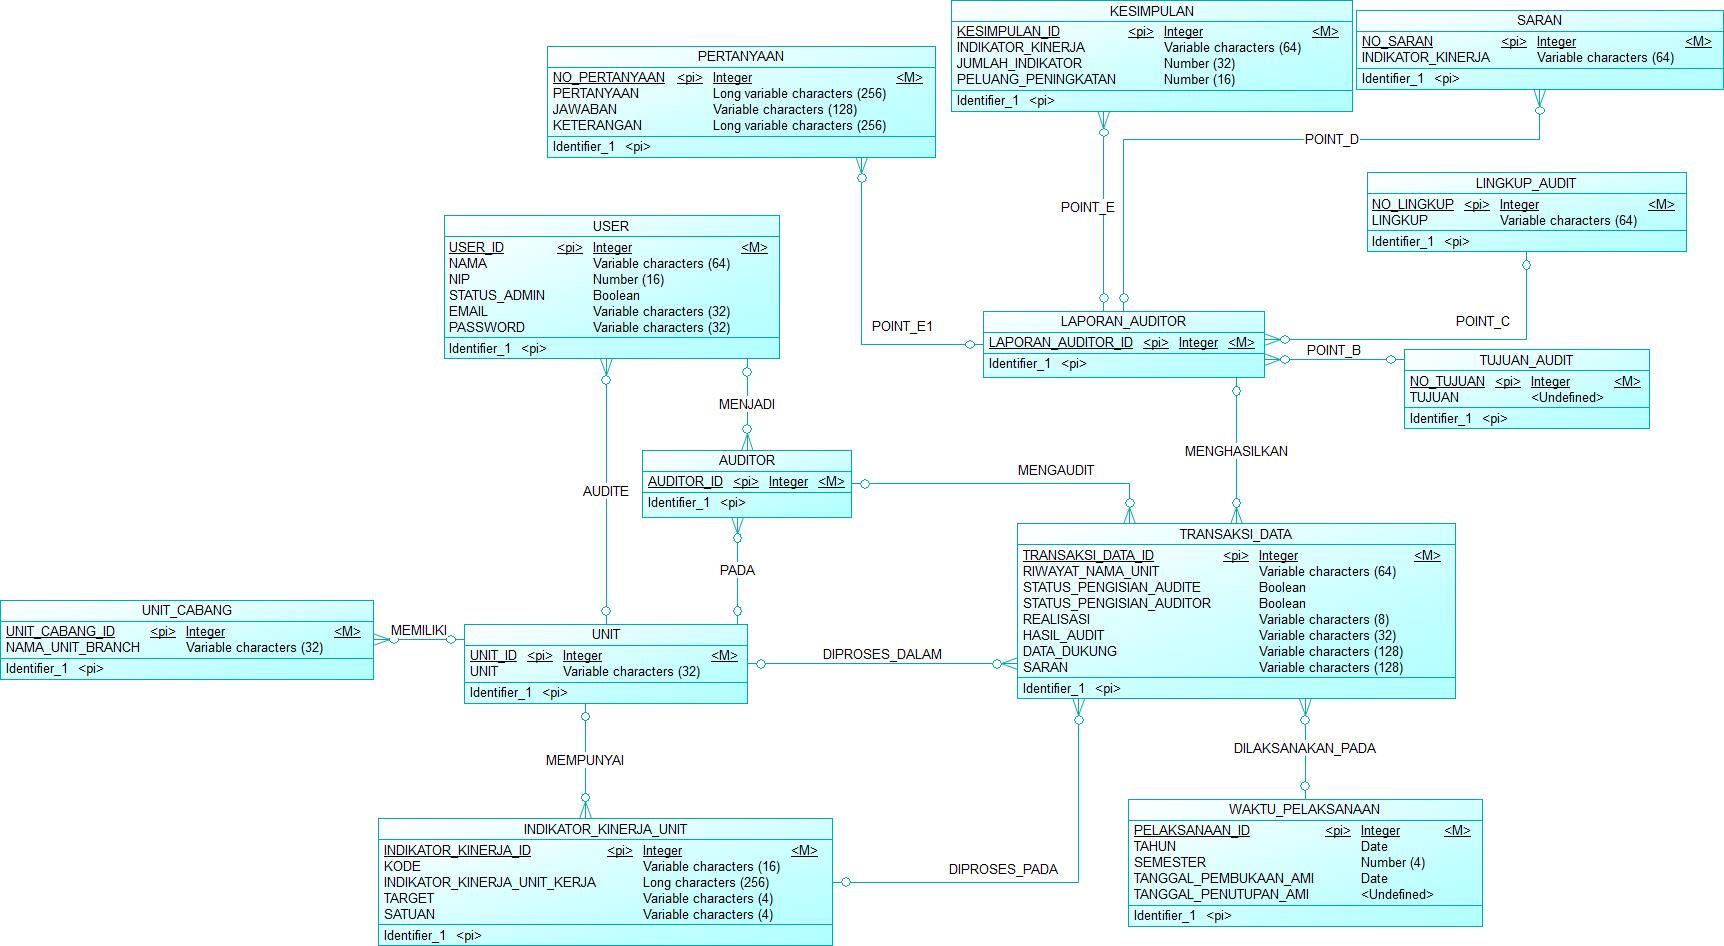
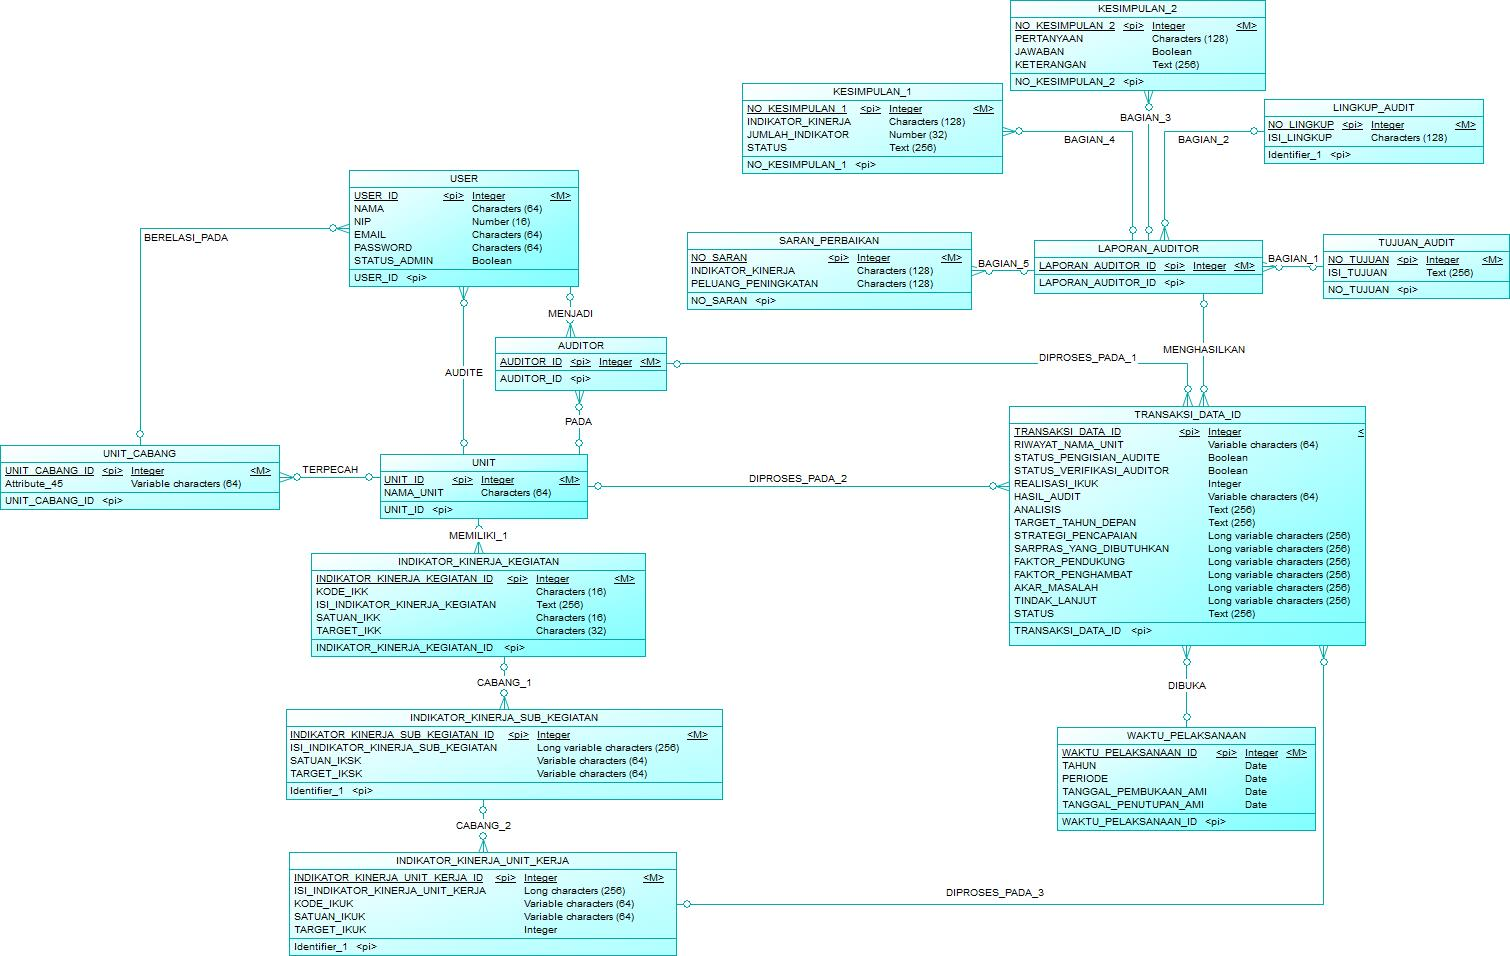
update database & image

diff --git a/database/migrations/2023_12_13_053811_create_indikator_kinerja_unit_kerja_table.php b/database/migrations/2023_12_13_053811_create_indikator_kinerja_unit_kerja_table.php
@@ -11,13 +11,10 @@ return new class extends Migration
      */
     public function up(): void
     {
-        Schema::create('indikator_kinerja_unit', function (Blueprint $table) {
-            $table->id('indikator_kinerja_id');
-            // $table->integer('no_id');
-            $table->unsignedBigInteger('unit_id')->nullOnDelete();
-            $table->foreign('unit_id')->references('unit_id')->on('unit');
+        Schema::create('indikator_kinerja_unit_kerja', function (Blueprint $table) {
+            $table->id('indikator_kinerja_unit_kerja_id');
             $table->string('kode')->unique();
-            $table->string('indikator_kinerja_unit_kerja'); 
+            $table->string('isi_indikator_kinerja_unit_kerja'); 
             $table->string('satuan');
             $table->integer('target');
             $table->timestamps();
@@ -29,6 +26,6 @@ return new class extends Migration
      */
     public function down(): void
     {
-        Schema::dropIfExists('indikator_kinerja_unit');
+        Schema::dropIfExists('indikator_kinerja_unit_kerja');
     }
 };

diff --git a/database/migrations/2024_04_03_063847_update_indikator_kinerja_unit_kerja.php b/database/migrations/2024_04_03_063847_update_indikator_kinerja_unit_kerja.php
@@ -1,0 +1,33 @@
+<?php
+
+use Illuminate\Database\Migrations\Migration;
+use Illuminate\Database\Schema\Blueprint;
+use Illuminate\Support\Facades\Schema;
+
+return new class extends Migration
+{
+    /**
+     * Run the migrations.
+     */
+    public function up(): void
+    {
+        Schema::table('indikator_kinerja_unit_kerja', function (Blueprint $table) {
+            $table->unsignedBigInteger('indikator_kinerja_sub_kegiatan_id')
+                    ->after('indikator_kinerja_unit_kerja_id');
+                    
+            $table->foreign('indikator_kinerja_sub_kegiatan_id', 'fk_iksk')
+                    ->references('indikator_kinerja_sub_kegiatan_id')
+                    ->on('indikator_kinerja_sub_kegiatan');
+        });
+    }
+
+    /**
+     * Reverse the migrations.
+     */
+    public function down(): void
+    {
+        Schema::table('indikator_kinerja_unit_kerja', function (Blueprint $table) {
+            Schema::dropIfExists('indikator_kinerja_unit_kerja');
+        });
+    }
+};

diff --git a/database/migrations/2024_04_03_061159_create_indikator_kinerja_kegiatan.php b/database/migrations/2024_04_03_061159_create_indikator_kinerja_kegiatan.php
@@ -1,0 +1,34 @@
+<?php
+
+use Illuminate\Database\Migrations\Migration;
+use Illuminate\Database\Schema\Blueprint;
+use Illuminate\Support\Facades\Schema;
+
+return new class extends Migration
+{
+    /**
+     * Run the migrations.
+     */
+    public function up(): void
+    {
+        Schema::create('indikator_kinerja_kegiatan', function (Blueprint $table) {
+            $table->id('indikator_kinerja_kegiatan_id');
+            $table->unsignedBigInteger('unit_id');
+            $table->foreign('unit_id')->references('unit_id')->on('unit');
+            $table->string('kode_ikk');
+            $table->string('isi_indikator_kinerja_kegiatan');
+            $table->string('satuan_ikk');
+            $table->string('target_ikk');
+        });
+    }
+
+    /**
+     * Reverse the migrations.
+     */
+    public function down(): void
+    {
+        Schema::create('indikator_kinerja_kegiatan', function (Blueprint $table) {
+            //
+        });
+    }
+};

diff --git a/database/migrations/2024_04_03_144357_update_indikator_kinerja_sub_kegiatan.php b/database/migrations/2024_04_03_144357_update_indikator_kinerja_sub_kegiatan.php
@@ -1,0 +1,31 @@
+<?php
+
+use Illuminate\Database\Migrations\Migration;
+use Illuminate\Database\Schema\Blueprint;
+use Illuminate\Support\Facades\Schema;
+
+return new class extends Migration
+{
+    /**
+     * Run the migrations.
+     */
+    public function up(): void
+    {
+        Schema::table('indikator_kinerja_sub_kegiatan', function (Blueprint $table) {
+           $table-> unsignedBigInteger('indikator_kinerja_kegiatan_id')->after('indikator_kinerja_sub_kegiatan_id');
+           $table->foreign('indikator_kinerja_kegiatan_id', 'fk_ikk_id')
+                    ->references('indikator_kinerja_kegiatan_id')
+                    ->on('indikator_kinerja_kegiatan');
+        });
+    }
+
+    /**
+     * Reverse the migrations.
+     */
+    public function down(): void
+    {
+        Schema::table('indikator_kinerja_sub_kegiatan', function (Blueprint $table) {
+            $table->dropIfExists('indikator_kinerja_kegiatan_id');
+        });
+    }
+};

diff --git a/database/migrations/2024_04_03_064811_update_transaksi_data_table.php b/database/migrations/2024_04_03_064811_update_transaksi_data_table.php
@@ -24,9 +24,8 @@ return new class extends Migration
             $table->unsignedBigInteger('auditor_id');
             $table->foreign('auditor_id')->references('auditor_id')->on('auditor');
             
-            $table->unsignedBigInteger('indikator_kinerja_id');
-            $table->foreign('indikator_kinerja_id')->references('indikator_kinerja_id')->on('indikator_kinerja_unit');
-
+            $table->unsignedBigInteger('indikator_kinerja_unit_kerja_id');
+            $table->foreign('indikator_kinerja_unit_kerja_id')->references('indikator_kinerja_unit_kerja_id')->on('indikator_kinerja_unit_kerja');
         });
     }
 
@@ -35,8 +34,6 @@ return new class extends Migration
      */
     public function down(): void
     {
-        Schema::table('transaksi_data', function (Blueprint $table) {
-            //
-        });
+        Schema::drop('transaksi_data');
     }
 };

diff --git a/database/migrations/2024_04_03_062951_create_indikator_kinerja_sub_kegiatan.php b/database/migrations/2024_04_03_062951_create_indikator_kinerja_sub_kegiatan.php
@@ -11,10 +11,11 @@ return new class extends Migration
      */
     public function up(): void
     {
-        Schema::create('password_reset_tokens', function (Blueprint $table) {
-            $table->string('email')->primary();
-            $table->string('token');
-            $table->timestamp('created_at')->nullable();
+        Schema::create('indikator_kinerja_sub_kegiatan', function (Blueprint $table) {
+            $table->id('indikator_kinerja_sub_kegiatan_id');
+            $table->text('isi_indikator_kinerja_sub_kegiatan');
+            $table->string('satuan_iksk');
+            $table->string('target_iksk');
         });
     }
 
@@ -23,6 +24,6 @@ return new class extends Migration
      */
     public function down(): void
     {
-        Schema::dropIfExists('password_reset_tokens');
+        Schema::dropIfExists('indikator_kinerja_sub_kegiata');
     }
 };

diff --git a/database/migrations/2024_03_07_080046_update_laporan_auditor_table.php b/database/migrations/2024_03_07_080046_update_laporan_auditor_table.php
@@ -25,8 +25,6 @@ return new class extends Migration
      */
     public function down(): void
     {
-        Schema::table('laporan_auditor', function (Blueprint $table) {
-            //
-        });
+        Schema::dropIfExists('laporan_auditor');
     }
 };

diff --git a/database/migrations/2024_03_07_080549_update_saran_table.php b/database/migrations/2024_03_07_080549_update_saran_table.php
@@ -22,8 +22,6 @@ return new class extends Migration
      */
     public function down(): void
     {
-        Schema::table('saran', function (Blueprint $table) {
-            //
-        });
+        Schema::dropIfExists('saran');
     }
 };

diff --git a/database/migrations/2024_01_12_081204_unit_branch.php b/database/migrations/2024_01_12_081204_unit_branch.php
@@ -25,6 +25,6 @@ return new class extends Migration
      */
     public function down(): void
     {
-        //
+        Schema::dropIfExists('unit_branch');
     }
 };
